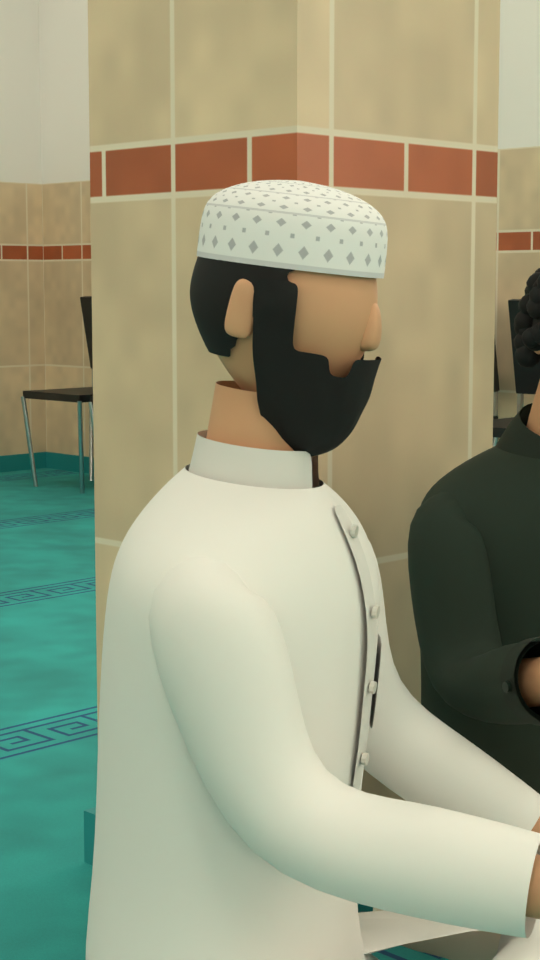
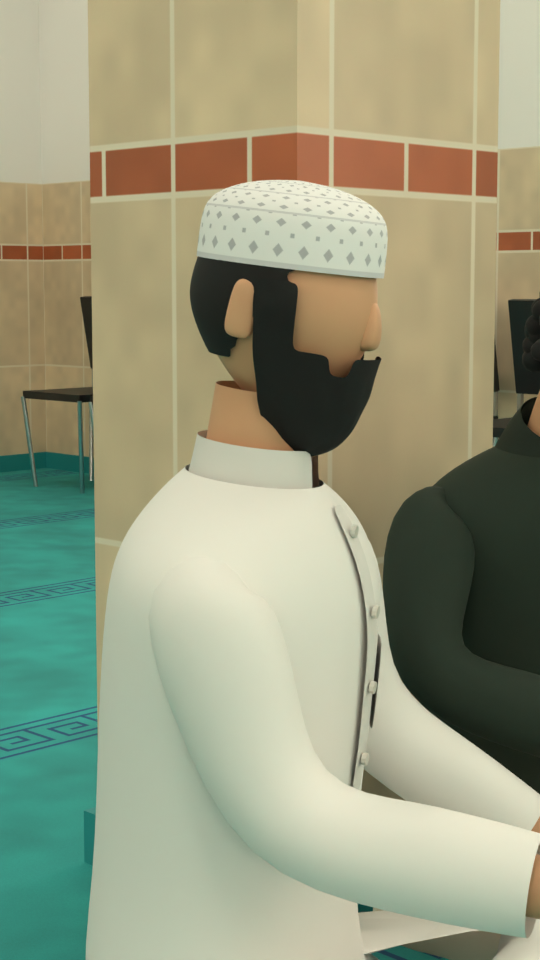
Iqama-Video: Storyboard in Blender (S1–S12, Licht-Tor, Lichtpunkte, Einblendungen)
Claude-Session: https://claude.ai/code/session_01Y7mABu5w37GuCDDEdSAsrV

diff --git a/iqama-video/blender/storyboard.py b/iqama-video/blender/storyboard.py
@@ -64,12 +64,12 @@ def licht_tor(coll):
     vi = [bm.verts.new((x, 0, z)) for x, z in inn]
     for i in range(len(va) - 1):
         bm.faces.new((va[i], va[i + 1], vi[i + 1], vi[i]))
-    rahmen = R.bm_object('Licht_Tor_Rahmen', bm, emission('Tor_Rahmen', '#f2b544', 9.0), coll, parent=g, smooth=False)
+    rahmen = R.bm_object('Licht_Tor_Rahmen', bm, emission('Tor_Rahmen', '#f2b544', 5.0), coll, parent=g, smooth=False)
     bm = bmesh.new()
     vf = [bm.verts.new((x, 0.02, z)) for x, z in inn]
     bm.faces.new(vf)
-    R.bm_object('Licht_Tor_Flaeche', bm, emission('Tor_Flaeche', '#ffd27a', 2.2, alpha=0.35), coll, parent=g, smooth=False)
-    li = bpy.data.lights.new('Licht_Tor_Licht', 'AREA'); li.energy = 220; li.color = (1.0, 0.8, 0.45); li.shape = 'RECTANGLE'; li.size, li.size_y = 2.2, 2.8
+    R.bm_object('Licht_Tor_Flaeche', bm, emission('Tor_Flaeche', '#ffd27a', 1.2, alpha=0.3), coll, parent=g, smooth=False)
+    li = bpy.data.lights.new('Licht_Tor_Licht', 'AREA'); li.energy = 70; li.color = (1.0, 0.8, 0.45); li.shape = 'RECTANGLE'; li.size, li.size_y = 2.2, 2.8
     lo = bpy.data.objects.new('Licht_Tor_Licht', li); coll.objects.link(lo); lo.parent = g
     lo.location = (0, -0.3, 1.5); lo.rotation_euler = (math.radians(90), 0, 0)
     g.location = (0, 4.9, 0.5)
@@ -209,7 +209,11 @@ def S10():  # Draufsicht, fünf Lichtpunkte
 
 
 def S11():  # B steckt das Handy in die Tasche
-    grundstellung(); a_b([D.TASCHE])
+    grundstellung(); a_b([D.TASCHE], handy=False)
+    zeige(ph, True); ph.parent = None
+    bpy.context.view_layer.update()
+    pb = B.pose.bones['Hand.R']; hand = B.matrix_world @ ((pb.head + pb.tail) / 2)
+    ph.location = hand + Vector((0, 0, 0.06)); ph.rotation_euler = (0, 0, math.radians(B_ROT))      # Handy gleitet in die Tasche
     k = kopf(B)
     SZ.kamera(S, (k.x + 0.75, k.y + 1.75, k.z - 0.05), (k.x, k.y, k.z - 0.4), objektiv(38))
 

diff --git a/iqama-video/blender/drehort.py b/iqama-video/blender/drehort.py
@@ -37,9 +37,9 @@ SITZEN = {                                           # Schneidersitz: Oberschenk
     'Bauch': (4, 0, 0), 'Brust': (3, 0, 0),
     'Oberarm.L': (-14, 0, -6), 'Oberarm.R': (-14, 0, 6), 'Unterarm.L': (-42, 0, 0), 'Unterarm.R': (-42, 0, 0),
 }
-HANDY = {'Oberarm.R': (-24, 0, -10), 'Unterarm.R': (-82, 0, 0), 'Hand.R': (-10, 0, 0), 'Hals': (12, 0, 0), 'Kopf': (16, 0, 0)}
+HANDY = {'Oberarm.R': (-58, -46, 65), 'Unterarm.R': (-69, 0, 17), 'Hand.R': (-10, 0, 0), 'Hals': (16, 0, 0), 'Kopf': (26, 0, 0)}   # Handy vor der Brust, Blick nach unten
 HANDY_UNTEN = {'Oberarm.R': (-16, 0, -6), 'Unterarm.R': (-50, 0, 0), 'Hand.R': (-8, 0, 0), 'Hals': (2, 0, 0), 'Kopf': (4, 0, 0)}
-TASCHE = {'Oberarm.R': (-10, 0, 22), 'Unterarm.R': (-96, 0, -30), 'Hand.R': (0, 0, 0), 'Kopf': (14, 0, 0)}
+TASCHE = {'Oberarm.R': (-60, -45, 39), 'Unterarm.R': (-102, 0, 84), 'Hand.R': (0, 0, 0), 'Hals': (10, 0, 0), 'Kopf': (18, 0, 0)}   # Hand an der Brusttasche
 SPRECHEN = {'Oberarm.R': (-26, 0, -12), 'Unterarm.R': (-58, 0, 0), 'Hand.R': (0, 0, 0)}
 DUA = {                                              # Bittgebet: Hände offen vor der Brust, Handflächen nach oben (per Suche)
     'Oberarm.L': (-42, 30, -40), 'Unterarm.L': (-80, 0, -10), 'Hand.L': (-30, -135, -20),

diff --git a/iqama-video/PLAN.md b/iqama-video/PLAN.md
@@ -14,7 +14,7 @@ Nach jeder Phase stoppen, Vorschau schicken, Freigabe abwarten.
 | Phase | Inhalt | Stand |
 |---|---|---|
 | 1 | Beweisliste H1/H2 (`docs/phase1-beweisliste.md`) | geprüft: H1 = hadeethenc 5479 (Abū Dāwūd 521, at-Tirmidhī 212, ṣaḥīḥ), H2 = hadeethenc 3435 (Muslim 649, al-Bukhārī 647). ✅ **freigegeben** (17.11.); A04 neu (geprüfter Wortlaut), dazu A01/B03/Schlusssatz „abgelehnt“ |
-| 2 | Storyboard 12 Bilder + Handy-Display, Zeitbalken, Licht-Tor | ✅ **freigegeben** (17.11.) `out/phase2/storyboard.jpg`, `einzelbilder.jpg` |
+| 2 | Storyboard 12 Bilder + Handy-Display, Zeitbalken, Licht-Tor | Three.js-Fassung freigegeben (17.11.), dann Ayman: **„mit Blender, im bekannten Stil“** → Blender-Storyboard `out/phase2/storyboard.jpg`, `einzelbilder.jpg`, Freigabe offen |
 | 3 | Stimmen (A und B von Ayman), Zeitplan, Rohschnitt 720p | offen |
 | 4 | Zeitbalken, Licht-Tor, Lichtpunkte, Karten, Untertitel, Geräusche; Vorschau 720p | offen |
 | 5 | Endfassung, Schlussprüfung, 2 Titelbilder, Beschreibung (genau 5 deutsche Hashtags) | offen |
@@ -61,3 +61,11 @@ dich / für deine Eltern / für dein Jenseits“, A06 · S11 B steckt Handy ein,
   Handy-Display als Textur, Raum dimmen), `web/grafik.js` (Zeitbalken, Display, Bildschirmzeit, Goldschrift, Wörter, Logo), `web/cards.js` (H1).
 - `node tools/storyboard.mjs` → `out/phase2/cells/*.png`, `out/phase2/einzel/*.png`; `python3 tools/blatt.py` → Blätter.
 - Server: `/iq/…` = iqama-video, sonst gebet-video.
+
+## Technik (Blender, ab 17.11.)
+- `blender/drehort.py`: `gebetsraum.blend` + A_Qamis, B_Hemd, 6 Nebenfiguren (umgefärbte Kopien), warmes Licht; Posen SITZEN
+  (Schneidersitz, per Suche), HANDY, HANDY_UNTEN, TASCHE, SPRECHEN, DUA (Hände vor der Brust, Handflächen oben); `sitzen()`.
+  Nutzt `schritte-video/blender/szene.py` (Mund, Handy, Kamera, stell, bildpunkt) und `gebet-video/blender` (nur lesen).
+- `blender/storyboard.py --samples 16 [--nur S6]` → `out/phase2/3d_S*.png` (+ Licht-Tor, Lichtpunkte, Display-Textur aus `out/phase2/tex`).
+- `tools/storyboard.py`: Einblendungen (`web/overlay.html|js`, `tools/overlay.mjs`, `web/grafik.js`) + Blätter.
+- Die Three.js-Dateien (`web/shots/board.js`, `web/board-data.js`, `tools/storyboard.mjs`, `tools/blatt.py`) sind nur noch Archiv.
